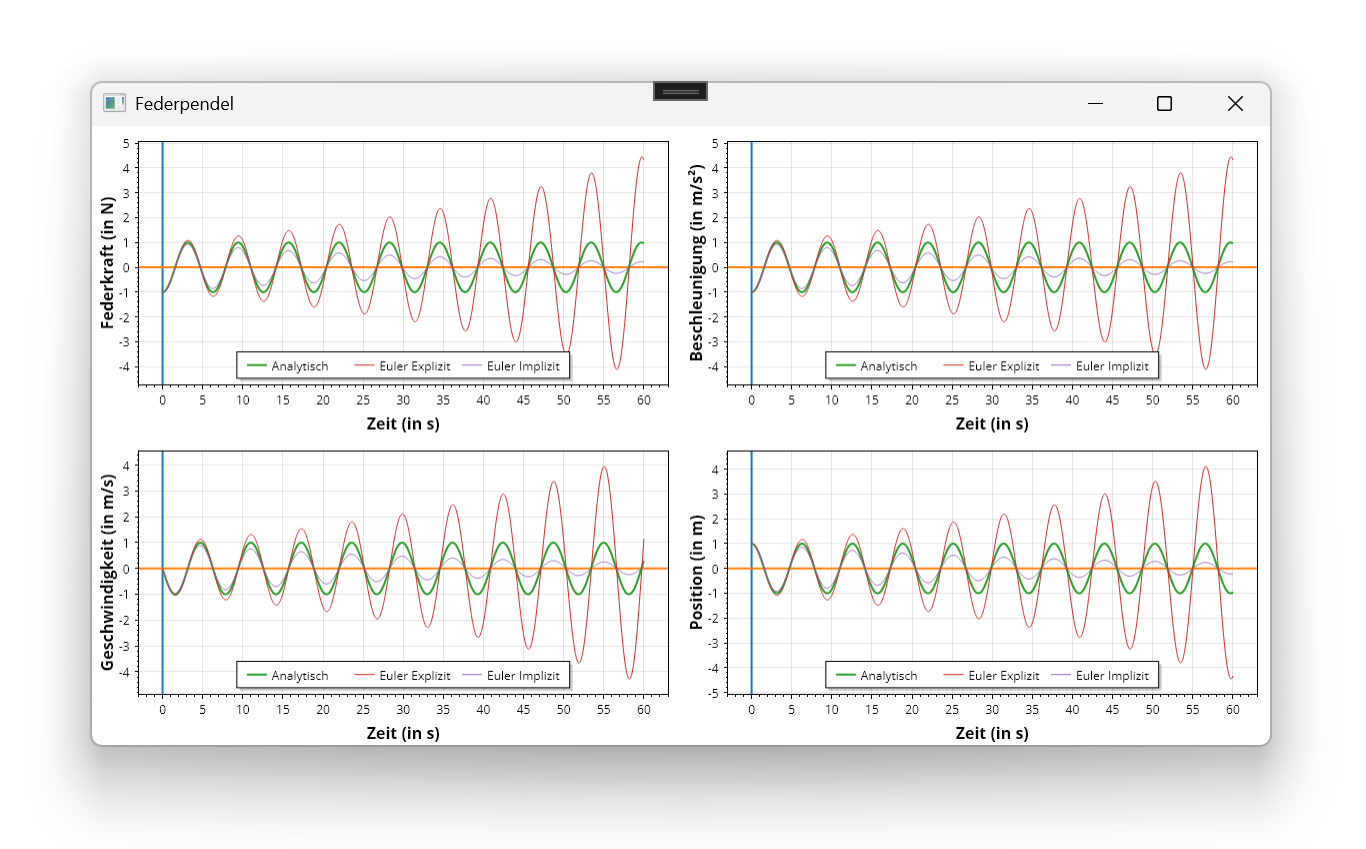
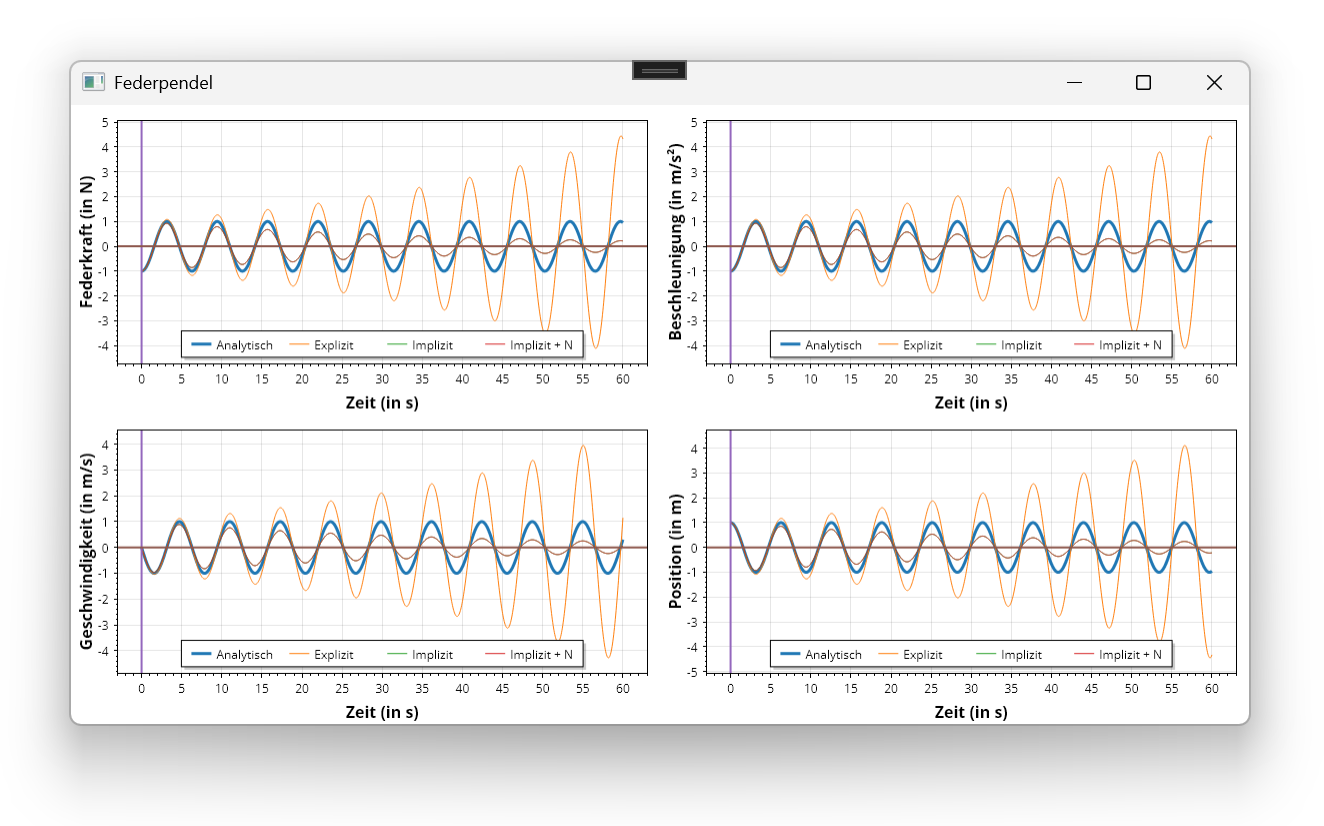
add fixpoint iteration scheme

Changed region(s): [[0.031, 0.0605, 0.96, 0.8777], [0.4645, 0.0605, 0.5264, 0.1211]]

diff --git a/Quellen/DynamischFederpendel1D/MainWindow.xaml.cs b/Quellen/DynamischFederpendel1D/MainWindow.xaml.cs
@@ -1,4 +1,5 @@
-using ScottPlot;
+using OpenTK.Graphics.ES20;
+using ScottPlot;
 using System.CodeDom;
 using System.Windows;
 
@@ -47,6 +48,11 @@ namespace DynamischFederpendel1D
             var dataAI = new double[steps];
             var dataVI = new double[steps];
 
+            var dataPIN = new double[steps];
+            var dataFIN = new double[steps];
+            var dataAIN = new double[steps];
+            var dataVIN = new double[steps];
+
             // Berechnung durchführen
 
             for (int i = 0; i < steps; i++)
@@ -79,6 +85,13 @@ namespace DynamischFederpendel1D
                     dataAI[i] = a0;
                     dataVI[i] = v0;
                     dataPI[i] = p0;
+
+                    // Startzustand - implizit + Newton
+
+                    dataFIN[i] = f0;
+                    dataAIN[i] = a0;
+                    dataVIN[i] = v0;
+                    dataPIN[i] = p0;
                 }
                 else
                 {
@@ -95,10 +108,107 @@ namespace DynamischFederpendel1D
                     dataPI[i] = dataPI[i - 1] + dataVI[i] * dt;
                     dataFI[i] = -k * dataPI[i];
                     dataAI[i] = dataFI[i] / m;
+
+                    // Folgezustand - implizit + Newton
+
+                    var count = 0;
+                    var guess = 0.0;
+                    var delta = 0.0;
+
+                    do
+                    {
+                        dataVIN[i] = dataVIN[i - 1] + guess * dt;
+                        dataPIN[i] = dataPIN[i - 1] + dataVIN[i] * dt;
+                        dataFIN[i] = -k * dataPIN[i];
+                        dataAIN[i] = dataFIN[i] / m;
+
+                        delta = guess - dataAIN[i];
+
+                        guess = dataAIN[i];
+
+                        count++;
+                    }
+                    while (Math.Abs(delta) > 0.000001 && count < 1000);
                 }
             }
 
-            // Daten visualisieren
+            // Kraft visualisieren
+
+            var f = VisualizationF.Plot.Add.Scatter(dataT, dataF);
+            f.LegendText = "Analytisch";
+            f.LineWidth = 3;
+            f.MarkerShape = MarkerShape.None;
+
+            var fe = VisualizationF.Plot.Add.Scatter(dataT, dataFE);
+            fe.LegendText = "Explizit";
+            fe.MarkerShape = MarkerShape.None;
+
+            var fi = VisualizationF.Plot.Add.Scatter(dataT, dataFI);
+            fi.LegendText = "Implizit";
+            fi.MarkerShape = MarkerShape.None;
+
+            var fin = VisualizationF.Plot.Add.Scatter(dataT, dataFIN);
+            fin.LegendText = "Implizit + N";
+            fin.MarkerShape = MarkerShape.None;
+
+            // Beschleunigung visualisieren
+
+            var a = VisualizationA.Plot.Add.Scatter(dataT, dataA);
+            a.LegendText = "Analytisch";
+            a.LineWidth = 3;
+            a.MarkerShape = MarkerShape.None;
+
+            var ae = VisualizationA.Plot.Add.Scatter(dataT, dataAE);
+            ae.LegendText = "Explizit";
+            ae.MarkerShape = MarkerShape.None;
+
+            var ai = VisualizationA.Plot.Add.Scatter(dataT, dataAI);
+            ai.LegendText = "Implizit";
+            ai.MarkerShape = MarkerShape.None;
+
+            var ain = VisualizationA.Plot.Add.Scatter(dataT, dataAIN);
+            ain.LegendText = "Implizit + N";
+            ain.MarkerShape = MarkerShape.None;
+
+            // Geschwindigkeit visualisieren
+
+            var v = VisualizationV.Plot.Add.Scatter(dataT, dataV);
+            v.LegendText = "Analytisch";
+            v.LineWidth = 3;
+            v.MarkerShape = MarkerShape.None;
+
+            var ve = VisualizationV.Plot.Add.Scatter(dataT, dataVE);
+            ve.LegendText = "Explizit";
+            ve.MarkerShape = MarkerShape.None;
+
+            var vi = VisualizationV.Plot.Add.Scatter(dataT, dataVI);
+            vi.LegendText = "Implizit";
+            vi.MarkerShape = MarkerShape.None;
+
+            var vin = VisualizationV.Plot.Add.Scatter(dataT, dataVIN);
+            vin.LegendText = "Implizit + N";
+            vin.MarkerShape = MarkerShape.None;
+
+            // Position visualisieren
+
+            var p = VisualizationP.Plot.Add.Scatter(dataT, dataP);
+            p.LegendText = "Analytisch";
+            p.LineWidth = 3;
+            p.MarkerShape = MarkerShape.None;
+
+            var pe = VisualizationP.Plot.Add.Scatter(dataT, dataPE);
+            pe.LegendText = "Explizit";
+            pe.MarkerShape = MarkerShape.None;
+
+            var pi = VisualizationP.Plot.Add.Scatter(dataT, dataPI);
+            pi.LegendText = "Implizit";
+            pi.MarkerShape = MarkerShape.None;
+
+            var pin = VisualizationP.Plot.Add.Scatter(dataT, dataPIN);
+            pin.LegendText = "Implizit + N";
+            pin.MarkerShape = MarkerShape.None;
+
+            // Nulllinien visualisieren
 
             VisualizationF.Plot.Add.VerticalLine(0);
             VisualizationF.Plot.Add.HorizontalLine(0);
@@ -111,66 +221,6 @@ namespace DynamischFederpendel1D
 
             VisualizationP.Plot.Add.VerticalLine(0);
             VisualizationP.Plot.Add.HorizontalLine(0);
-
-            // Kraft visualisieren
-
-            var f = VisualizationF.Plot.Add.Scatter(dataT, dataF);
-            f.LegendText = "Analytisch";
-            f.LineWidth = 2;
-            f.MarkerShape = MarkerShape.None;
-
-            var fe = VisualizationF.Plot.Add.Scatter(dataT, dataFE);
-            fe.LegendText = "Euler Explizit";
-            fe.MarkerShape = MarkerShape.None;
-
-            var fi = VisualizationF.Plot.Add.Scatter(dataT, dataFI);
-            fi.LegendText = "Euler Implizit";
-            fi.MarkerShape = MarkerShape.None;
-
-            // Beschleunigung visualisieren
-
-            var a = VisualizationA.Plot.Add.Scatter(dataT, dataA);
-            a.LegendText = "Analytisch";
-            a.LineWidth = 2;
-            a.MarkerShape = MarkerShape.None;
-
-            var ae = VisualizationA.Plot.Add.Scatter(dataT, dataAE);
-            ae.LegendText = "Euler Explizit";
-            ae.MarkerShape = MarkerShape.None;
-
-            var ai = VisualizationA.Plot.Add.Scatter(dataT, dataAI);
-            ai.LegendText = "Euler Implizit";
-            ai.MarkerShape = MarkerShape.None;
-
-            // Geschwindigkeit visualisieren
-
-            var v = VisualizationV.Plot.Add.Scatter(dataT, dataV);
-            v.LegendText = "Analytisch";
-            v.LineWidth = 2;
-            v.MarkerShape = MarkerShape.None;
-
-            var ve = VisualizationV.Plot.Add.Scatter(dataT, dataVE);
-            ve.LegendText = "Euler Explizit";
-            ve.MarkerShape = MarkerShape.None;
-
-            var vi = VisualizationV.Plot.Add.Scatter(dataT, dataVI);
-            vi.LegendText = "Euler Implizit";
-            vi.MarkerShape = MarkerShape.None;
-
-            // Position visualisieren
-
-            var p = VisualizationP.Plot.Add.Scatter(dataT, dataP);
-            p.LegendText = "Analytisch";
-            p.LineWidth = 2;
-            p.MarkerShape = MarkerShape.None;
-
-            var pe = VisualizationP.Plot.Add.Scatter(dataT, dataPE);
-            pe.LegendText = "Euler Explizit";
-            pe.MarkerShape = MarkerShape.None;
-
-            var pi = VisualizationP.Plot.Add.Scatter(dataT, dataPI);
-            pi.LegendText = "Euler Implizit";
-            pi.MarkerShape = MarkerShape.None;
 
             // Visualisierung konfigurieren
 
